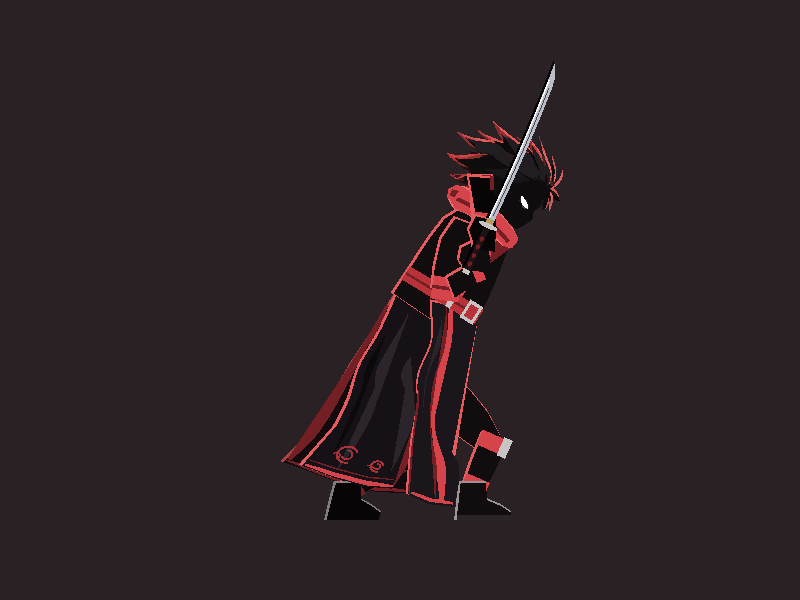
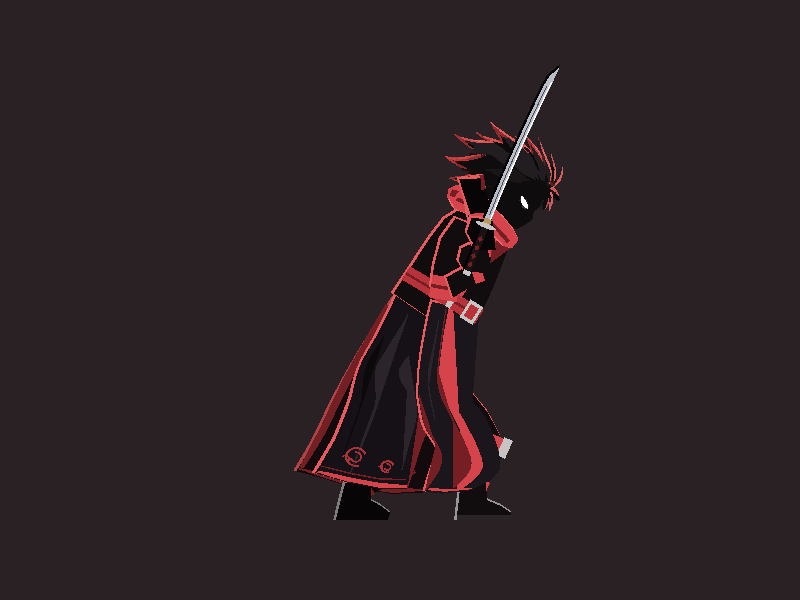
SAN-114: habaki drawn under the tsuba (distinct draw order), discarded weapon parts hidden at once, stale kage_iai before image
The 1-2 px CharacterScreenshots difference after a chain sickle test class is the
habaki/tsuba overlap: both in the same depth slot of the Sword bone, so the same
sorting order, and Unity's tie order changed with session history. PartDef.underSlot
(-1) puts the habaki just under its slot; SwordDrawOrderTests (EditMode) checks no
overlapping katana parts share an order. ChainVisual and FighterRig.ClearFamilyParts
also hid nothing they Destroy()ed, so sickle parts stayed drawn at the world origin for
the rest of a headless session's single frame; they are deactivated first now.
CharacterScreenshots gains a test that runs a sickle fight first. kage_iai's before
image predates SAN-118's iai rework (19298 px on main alone) and is re-rendered.

diff --git a/Assets/Kage/Tests/EditMode/SwordDrawOrderTests.cs b/Assets/Kage/Tests/EditMode/SwordDrawOrderTests.cs
@@ -1,0 +1,81 @@
+using System.Collections.Generic;
+using System.Linq;
+using NUnit.Framework;
+using UnityEngine;
+
+namespace Kage.Tests
+{
+    /// <summary>
+    /// SAN-114: two parts of the katana that overlap must never share a draw order. With the same sorting order Unity draws them in
+    /// whatever order it picks, and that changed between renders in one session: the habaki showed over the tsuba by a pixel or two
+    /// in <c>CharacterScreenshots</c> after a weapon family test class had run. Seam: <see cref="KageModel.Build"/>, the sword parts'
+    /// polygons (bind space, rigid on the Sword bone) and their draw slot (<see cref="PartDef.order"/>, <see cref="PartDef.underSlot"/>).
+    /// </summary>
+    public class SwordDrawOrderTests
+    {
+        static List<PartDef> SwordParts(KageModel.Look look) =>
+            KageModel.Build(look).parts.Where(p => p.bone == B.Sword && p.pts != null && p.pts.Length >= 3).ToList();
+
+        static bool Inside(Vector2[] poly, Vector2 p)
+        {
+            bool inside = false;
+            for (int i = 0, j = poly.Length - 1; i < poly.Length; j = i++)
+                if ((poly[i].y > p.y) != (poly[j].y > p.y) &&
+                    p.x < (poly[j].x - poly[i].x) * (p.y - poly[i].y) / (poly[j].y - poly[i].y) + poly[i].x)
+                    inside = !inside;
+            return inside;
+        }
+
+        static Rect Bounds(Vector2[] poly)
+        {
+            float x0 = poly.Min(v => v.x), x1 = poly.Max(v => v.x), y0 = poly.Min(v => v.y), y1 = poly.Max(v => v.y);
+            return Rect.MinMaxRect(x0, y0, x1, y1);
+        }
+
+        /// <summary>Points of a 0.25 mm grid inside both polygons.</summary>
+        static int SharedSamples(Vector2[] a, Vector2[] b)
+        {
+            Rect ra = Bounds(a), rb = Bounds(b);
+            float x0 = Mathf.Max(ra.xMin, rb.xMin), x1 = Mathf.Min(ra.xMax, rb.xMax), y0 = Mathf.Max(ra.yMin, rb.yMin), y1 = Mathf.Min(ra.yMax, rb.yMax);
+            if (x0 >= x1 || y0 >= y1) return 0;
+            const float step = 0.00025f;
+            int n = 0;
+            for (int i = 0; i < 4000 && x0 + i * step < x1; i++)
+                for (int j = 0; j < 4000 && y0 + j * step < y1; j++)
+                {
+                    var p = new Vector2(x0 + i * step, y0 + j * step);
+                    if (Inside(a, p) && Inside(b, p)) n++;
+                }
+            return n;
+        }
+
+        [TestCase(KageModel.Look.Kage)]
+        [TestCase(KageModel.Look.Ronin)]
+        public void Overlapping_sword_parts_never_share_a_draw_order(KageModel.Look look)
+        {
+            var parts = SwordParts(look);
+            Assert.Greater(parts.Count, 5, "the katana's parts");
+            var ties = new List<string>();
+            for (int i = 0; i < parts.Count; i++)
+                for (int j = i + 1; j < parts.Count; j++)
+                {
+                    PartDef a = parts[i], b = parts[j];
+                    if (a.order != b.order || a.underSlot != b.underSlot) continue;
+                    int shared = SharedSamples(a.pts, b.pts);
+                    if (shared > 0) ties.Add($"{a.name} and {b.name} (order {a.order}, {shared} samples)");
+                }
+            CollectionAssert.IsEmpty(ties, "overlapping parts drawn at the same order");
+        }
+
+        [Test]
+        public void The_habaki_is_drawn_under_the_tsuba_where_they_overlap()
+        {
+            var parts = SwordParts(KageModel.Look.Kage);
+            var tsuba = parts.Single(p => p.name == "Tsuba");
+            var habaki = parts.Single(p => p.name == "Habaki");
+            Assert.Greater(SharedSamples(tsuba.pts, habaki.pts), 0, "they do overlap");
+            Assert.AreEqual(tsuba.order, habaki.order, "one depth slot");
+            Assert.Less(habaki.underSlot, tsuba.underSlot, "the tsuba on top, as in the SAN-66 before images");
+        }
+    }
+}

diff --git a/Assets/Kage/Tests/PlayMode/CharacterScreenshots.cs b/Assets/Kage/Tests/PlayMode/CharacterScreenshots.cs
@@ -35,6 +35,41 @@ namespace Kage.Tests
         public void KageAndTheRoninLookAsBefore()
         {
             Assume.That(SystemInfo.graphicsDeviceType != GraphicsDeviceType.Null, "needs a GPU: run without -nographics");
+            RenderAndCompare();
+        }
+
+        /// <summary>
+        /// SAN-114: a chain sickle fight run first in the same session (a weapon family fight test class sorting before this one)
+        /// changed these images by a few pixels. Re-equipping the sickle detaches its old parts to the scene root to be destroyed at
+        /// the end of the frame, and a headless session runs many tests in one frame, so they were drawn at the world origin, behind
+        /// Kage. They are hidden at once now. The fight here re-equips the sickle the way the family tests do, and must leave
+        /// nothing drawn behind it.
+        /// </summary>
+        [Test]
+        public void KageAndTheRoninLookAsBefore_after_a_chain_sickle_fight()
+        {
+            var before = new HashSet<Renderer>(Object.FindObjectsByType<Renderer>(FindObjectsInactive.Exclude, FindObjectsSortMode.None));
+            using (var f = new HeadlessFight(KageMoveScenarios.Seed, Foe.Scripted, 0f, 1.2f, kageDef: SpearFamilyFightTests.KageWith("yamigama")))
+            {
+                f.RoninInput.Add(600);
+                f.KageInput.Add(1, buttons: "S").Add(40);
+                f.Run(20);
+                f.Kage.EquipWeapon("kagetsu");
+                f.Kage.EquipWeapon("yamigama");
+                f.Kage.EquipWeapon("chain_hook");
+                f.Run(20);
+            }
+            var drawn = new List<string>();
+            foreach (var r in Object.FindObjectsByType<Renderer>(FindObjectsInactive.Exclude, FindObjectsSortMode.None))
+                if (r.enabled && !before.Contains(r)) drawn.Add(r.transform.root.name + "/" + r.name);
+            CollectionAssert.IsEmpty(drawn, "nothing of the disposed fight is still drawn");
+
+            Assume.That(SystemInfo.graphicsDeviceType != GraphicsDeviceType.Null, "needs a GPU: run without -nographics");
+            RenderAndCompare();
+        }
+
+        static void RenderAndCompare()
+        {
             string outDir = Path.Combine(Root, Label);
             Directory.CreateDirectory(outDir);
 

diff --git a/Assets/Kage/Scripts/Character/FighterRig.cs b/Assets/Kage/Scripts/Character/FighterRig.cs
@@ -174,7 +174,7 @@ namespace Kage
             foreach (var p in _parts)
             {
                 int o = p.def.order + (p.def.swordLayer && (swordFront || _frontAlways) ? 30 * 4 : 0);
-                p.main.sortingOrder = baseOrder + o * 3 + 2;
+                p.main.sortingOrder = baseOrder + o * 3 + 2 + Mathf.Clamp(p.def.underSlot, -1, 0);
                 if (p.rim != null) p.rim.sortingOrder = baseOrder + (o - o % 4) * 3;
             }
             if (scarf != null) scarf.SetOrder(baseOrder + 3);
@@ -480,6 +480,7 @@ namespace Kage
             _all.Remove(r);
             var mesh = r.GetComponent<MeshFilter>()?.sharedMesh;
             if (mesh != null) Destroy(mesh);
+            r.gameObject.SetActive(false);     // gone from view at once: Destroy lands at the end of the frame (SAN-114)
             Destroy(r.gameObject);
         }
 

diff --git a/Assets/Kage/Scripts/Character/RigDef.cs b/Assets/Kage/Scripts/Character/RigDef.cs
@@ -39,6 +39,12 @@ namespace Kage
         public Color color;
         public PartRole role;
         public int order;              // depth slot within the fighter
+        /// <summary>
+        /// -1 draws the part just under the other parts of its depth slot (above the slot below). Two overlapping parts in one
+        /// slot have the same sorting order, and Unity then draws them in whatever order it picks, which can change from one
+        /// render to the next in a session (SAN-114: the habaki and the tsuba).
+        /// </summary>
+        public int underSlot;
         public bool rim = true;
         public float rimGrow = 0.0045f;
         public Color? rimColor;

diff --git a/Assets/Kage/Scripts/Combat/Families/ChainVisual.cs b/Assets/Kage/Scripts/Combat/Families/ChainVisual.cs
@@ -116,6 +116,9 @@ namespace Kage
             var anchor = rig.Bone(B.Sword).Find(AnchorName);
             if (anchor != null)
             {
+                // hidden at once: detached, it sits at the world origin until Destroy lands at the end of the frame, and a headless
+                // session runs many fights in one frame (SAN-114: it was drawn behind Kage in the next test's screenshots)
+                anchor.gameObject.SetActive(false);
                 anchor.SetParent(null, false);
                 Object.Destroy(anchor.gameObject);
             }

diff --git a/Assets/Kage/Scripts/Character/KageModel.cs b/Assets/Kage/Scripts/Character/KageModel.cs
@@ -514,6 +514,7 @@ namespace Kage
             }
             SP("Tsuba", 2, Palette.Silver, PartRole.Metal, L(tsuba.ToArray()), true);
             SP("Habaki", 2, KMath.Hex("#B89A5A"), PartRole.Metal, L(0.052f, -0.017f, 0.074f, -0.016f, 0.074f, 0.016f, 0.052f, 0.017f));
+            d.parts[d.parts.Count - 1].underSlot = -1;   // under the tsuba where they overlap, every time (SAN-114)
         }
     }
 }
